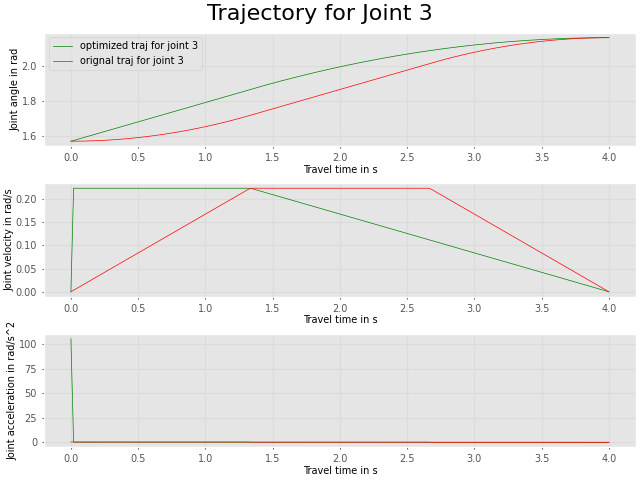
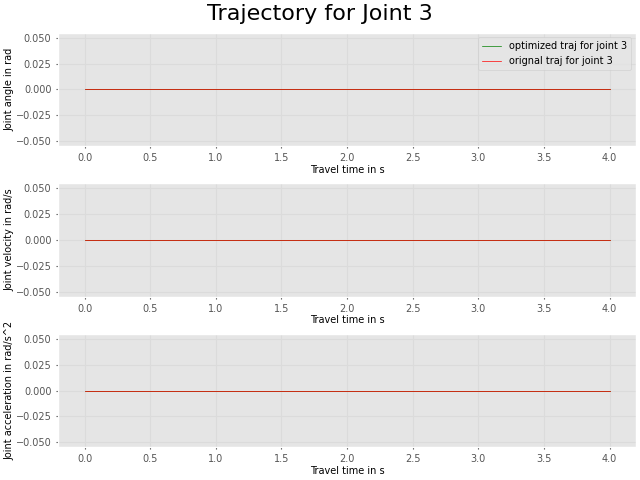
Added reflected mass formulation
reflected mass at some points of interest

diff --git a/Trajectory/insanity.py b/Trajectory/insanity.py
@@ -4,6 +4,10 @@ import numpy as np
 from traj import generate_traj_time
 import matplotlib.pyplot as plt
 from mpl_toolkits import mplot3d
+import math
+import matplotlib.pyplot as plt
+import matplotlib.animation as animation
+import mpl_toolkits.mplot3d.axes3d as p3
 
 Yu = rtb.models.DH.Yu()
 
@@ -12,6 +16,8 @@ angle = np.zeros((6, 201))
 velocity = np.zeros((6, 201))
 accel = np.zeros((6, 201))
 mass_vec = np.zeros(6)
+points = [np.array([0, -0.13687, 0, 1]), np.array([-0.450, 0, 0.13687, 1]), np.array([0, 0, -0.1957, 1]), np.array([0, 0, 0.10946, 1]), np.array([0, 0, 0.10946, 1]), np.array([0, 0, 0, 1])] # points of interest
+
 
 for j in range(6):
 
@@ -20,37 +26,143 @@ for j in range(6):
     accel[j, :] = traj[j].qdd
     mass_vec[j] = Yu[j].m
 
-mass = np.linalg.norm(mass_vec, 1)
+mass = np.linalg.norm(mass_vec, 1) # total mass of robot
 # define a point on the robot
 r1 = np.array([-0.450, 0, 0.13687, 1]) # Position vector of p1 relative to RF2 (segment 2)
 
-q = angle[:, 75]
-fwd = Yu.fkine_all(q)
-fwd_j2 = np.array(fwd[2])
-trafo_p1 = np.eye(4)
-trafo_p1[:, -1] = r1
-rf_p1 = fwd_j2 @ trafo_p1
-r1_0 = rf_p1[:, -1] # Position vector of p1 in RF0 (robot base)
-fwd_ee = np.array(fwd[-1])
-r6_0 = fwd_ee[:, -1]
-r61_0 = r1_0 - r6_0 # Position vector from RF6 to p1 in RF0
-print(r61_0)
-trafo_61 = np.eye(4)
-trafo_61[:3, -1] = r61_0[:3]
-print(trafo_61)
 
-#Yu.tool = trafo_61
+def unit_vector(q, point, joint_num, t, qd): # angle and velocity matrix should have the size of (201, 6), point = np.array([x, y, z, 1]), t: traj time
 
-qd = velocity[:, 0]
-jacobian_p1 = Yu.jacob0(q)
-print(np.round(jacobian_p1, 3))
+    Yu = rtb.models.DH.Yu() # import Yu with all relevant geometric and mechanical data
+    #traj = generate_traj_time(2.5, 201)
 
-M_q = Yu.inertia(q)
+    trafo_p = np.eye(4)
+    trafo_p[:, -1] = point
+    #lin_vel = np.zeros((6, 3, 201)) 
+    vel_um = np.zeros((6, 3, 201))
+    joint_jacobian = np.zeros((6, joint_num+1))   
+    #lin_momentum = np.zeros((6, 3, 201))
+    #ang_momentum = np.zeros((6, 3, 201))
+    #lin_momentum_total = np.zeros((3, 201))
+    #mmt_abs = np.zeros((6, 201))
+    #position_mass = np.zeros((6, 3, 201))
+    #T_cm = np.zeros((201, 3))
+    #v_ee = np.zeros((6, 201))
+    pose_list = []
+    poses = Yu.fkine_all(q)
 
-Aq_inv = jacobian_p1 @ np.linalg.inv(M_q) @ np.transpose(jacobian_p1)
-#print(Aq_inv)
 
-u = np.array([0, 1, 0])
-m_refl = 1/(np.transpose(u) @ Aq_inv[:3, :3] @ u)
-print(f'reflected mass at point: {m_refl} kg')
-print(f'mass of the whole robot: {mass} kg')
+    for pose in (poses):
+        pose_list.append(np.array(pose))  
+
+    #print(trafo_p)
+    rf_p = pose_list[joint_num+1] @ trafo_p @ np.array([0, 0, 0, 1]) # Position vector of p in RF0
+
+    for count in range(joint_num+1):
+        translation = rf_p - pose_list[count] @ np.array([0, 0, 0, 1])
+        translation = translation[:3]
+        rotation = pose_list[count] @ np.array([0, 0, 1, 0])
+        rotation = rotation[:3]
+        joint_jacobian[:3, count] = np.cross(rotation ,translation)
+        joint_jacobian[3:6, count] = rotation
+
+    lin_ang = joint_jacobian @ qd[:joint_num+1] # velocity[t, :joint_num+1]
+    lin_vel = lin_ang[:3]
+    #print(lin_vel)
+    length = np.linalg.norm(lin_vel, 2)
+    if length <= 1e-3:
+        vel_u = np.zeros(3)
+    else:
+        vel_u = np.divide(lin_vel, (np.linalg.norm(lin_vel, 2)))
+
+    fkine_ee = pose_list[-1]
+    r6_0 = fkine_ee[:, -1]
+    #print(rf_p)
+    #print(r6_0)
+    r6p_0 = rf_p - r6_0 # Position vector from RF6 to p in RF0
+    #print(r6p_0)
+    T_0e = Yu.fkine(q)
+    #print(T_0e)
+    T_e0 = np.linalg.inv(T_0e)
+    #print(T_e0)
+    r6p_0 = T_e0 @ r6p_0
+    #print(r6p_0)
+    trafo_6p = np.eye(4)
+    trafo_6p[:3, -1] = r6p_0[:3]
+    #print(trafo_6p)
+
+    Yu.tool = trafo_6p
+    jacobian_p = Yu.jacob0(q)
+    M_q = Yu.inertia(q)
+    Aq_inv = jacobian_p @ np.linalg.inv(M_q) @ np.transpose(jacobian_p)
+    #print(jacobian_p)
+    #print(f'vel = {vel_u}\n')
+    if all(element == 0 for element in vel_u):
+        m_refl = 0
+        #print('oh no')
+    else:
+        #print(vel_u)
+        m_refl = 1/(np.transpose(vel_u) @ Aq_inv[:3, :3] @ vel_u)
+        #print('oh yes')
+    #print(f'reflected mass at point: {m_refl} kg')
+    #print(f'mass of the whole robot: {mass} kg')
+
+    return vel_u, m_refl, lin_vel, rf_p
+
+m_refl = np.zeros((6, 201))
+lin_vel = np.zeros((6, 3, 201))
+rf_p_storage = np.zeros((6, 3, 201))
+
+
+for t in range(201):
+    q = angle[:, t]
+    qd = velocity[:, t]
+
+    for count, r in enumerate(points):
+        #print(f'r = {r}\n')
+        result = unit_vector(q, r, count, t, qd)
+        lin_vel[count, :, t] = result[2]
+        m_refl[count, t] = result[1]
+        rf_p_storage[count, :, t] = result[3][:3]
+
+n = 4
+print(m_refl[n, :])
+#print(lin_vel[3, :, :])
+refl_max = np.argmax(m_refl[n, :])
+print(refl_max)
+print(m_refl[n, refl_max])
+ax = plt.axes(111, projection='3d')
+
+lin_vel_plot = lin_vel[n, :, :]
+start = np.transpose(rf_p_storage[n, :, :])
+
+xline2 = start[:, 0]
+yline2 = start[:, 1]
+zline2 = start[:, 2]
+
+
+ax = plt.axes(111, projection='3d')
+#ax.set_xlim([-8, 8])
+#ax.set_ylim([-8, 8])
+#ax.set_zlim([-1, 1])
+ax.set_xlabel('x coordinate in m')
+ax.set_ylabel('Y coordinate in m')
+ax.set_zlabel('Z coordinate in m')
+#ax.plot3D(xline, yline, zline)
+#ax.plot3D(xline1, yline1, zline1, color='blue')
+ax.plot3D(xline2, yline2, zline2, color='red', linewidth=1, label='Trajectory of center of mass')
+#plt.show()
+
+#print(start)
+#print(np.round(lin_max, 2))
+for i in range(201):
+#for i in range(5):
+    if i == 0:
+        ax.quiver(start[i, 0], start[i, 1], start[i, 2], lin_vel_plot[0, i], lin_vel_plot[1, i], lin_vel_plot[2, i], color='green', arrow_length_ratio=0, label='Momentum vector of robot on its center of mass')
+    elif i % 4 == 0:
+    #ax.quiver(start[i, 0], start[i, 1], start[i, 2], lin_max[i, 0], lin_max[i, 1], lin_max[i, 2], arrow_length_ratio=0.01, length=np.linalg.norm((start[i, :]-lin_max[i, :]), 2), normalize='True')
+        ax.quiver(start[i, 0], start[i, 1], start[i, 2], lin_vel_plot[0, i], lin_vel_plot[1, i], lin_vel_plot[2, i], color='green', arrow_length_ratio=0)#length=0.01*np.linalg.norm((start[i, :]-lin_max[i, :]), 2), normalize='True', arrow_length_ratio=0.05, color='blue')
+    #ax.quiver(T_cm[i, 0], T_cm[i, 1], T_cm[i, 2], lin_max[i, 0], lin_max[i, 1], lin_max[i, 2], arrow_length_ratio=0.01, length=np.linalg.norm((start[i, :]-lin_max[i, :]), 2), normalize='True')
+#plt.show()
+#ax.legend()
+plt.show()

diff --git a/Trajectory/momentum_plot.py b/Trajectory/momentum_plot.py
@@ -119,9 +119,9 @@ def calculate_momentum(traj):
     xline = lin_max[:, 0]
     yline = lin_max[:, 1]
     zline = lin_max[:, 2]
-    xline1 = position_mass[max_joint, 0, :]
-    yline1 = position_mass[max_joint, 1, :]
-    zline1 = position_mass[max_joint, 2, :]
+    xline1 = position_mass[0, 0, :]
+    yline1 = position_mass[0, 1, :]
+    zline1 = position_mass[0, 2, :]
     xline2 = T_cm[:, 0]
     yline2 = T_cm[:, 1]
     zline2 = T_cm[:, 2]
@@ -138,7 +138,6 @@ def calculate_momentum(traj):
     #ax.plot3D(xline1, yline1, zline1, color='blue')
     ax.plot3D(xline2, yline2, zline2, color='red', linewidth=1, label='Trajectory of center of mass')
     plt.savefig('C:\Codes\master_thesis\Trajectory\Figures\Momentum/mass_traj.png')
-
     start = np.transpose(position_mass[max_joint, :, :])
     #print(start)
     #print(np.round(lin_max, 2))
@@ -172,10 +171,7 @@ def calculate_momentum(traj):
     plt.title('Change of total momentum over time', fontsize=20)
     plt.savefig('C:\Codes\master_thesis\Trajectory\Figures\Momentum/momentum_total.png')
     plt.show()
-    print(lin_vel)
-    abs_lin_vel = np.linalg.norm(lin_vel, 2, axis=1)
-    print(np.amax(abs_lin_vel, axis=1))
-    print(np.argmax(np.amax(abs_lin_vel, axis=1)))
+
     return np.max(result)
 
 traj = generate_traj_time(2.5, 201)

diff --git a/Trajectory/general_testing.py b/Trajectory/general_testing.py
@@ -30,7 +30,40 @@ t2 = end_time2 - start_time2
 print(t1)
 print(t2)
 """
+Yu = rtb.models.DH.Yu()
+traj = generate_traj_time(2.5, 201)
+angle = np.zeros((6, 201))
+velocity = np.zeros((6, 201))
+accel = np.zeros((6, 201))
+mass_vec = np.zeros(6)
 
-a = np.array([[0, 0, 0], [0, 0, 0], [0, 0, 2]])
-b = np.linalg.inv(a)
-print(b)
+for j in range(6):
+    angle[j, :] = traj[j].q
+    velocity[j, :] = traj[j].qd
+    accel[j, :] = traj[j].qdd
+
+ee_list = np.zeros((3, 201))
+for i in range(201):
+    ee = np.array(Yu.fkine(angle[:, i]))
+    ee = ee[:, -1]
+    ee = ee[:3]
+    ee_list[:, i] = ee
+
+xline2 = ee_list[0, :]
+yline2 = ee_list[1, :]
+zline2 = ee_list[2, :]
+
+
+ax = plt.axes(111, projection='3d')
+#ax.set_xlim([-8, 8])
+#ax.set_ylim([-8, 8])
+#ax.set_zlim([-1, 1])
+ax.set_xlabel('x coordinate in m')
+ax.set_ylabel('Y coordinate in m')
+ax.set_zlabel('Z coordinate in m')
+#ax.plot3D(xline, yline, zline)
+#ax.plot3D(xline1, yline1, zline1, color='blue')
+ax.plot3D(xline2, yline2, zline2, color='red', linewidth=1, label='Trajectory of center of mass')
+plt.show()
+
+print(ee_list)

diff --git a/Trajectory/traj.py b/Trajectory/traj.py
@@ -36,11 +36,22 @@ def generate_traj_time(traj_time):
 
     return tg1, tg2, tg3, tg4, tg5, tg6, t
 """
-
 def generate_traj_time(traj_time, step):
     #Yu = rtb.models.DH.Yu()
     t = np.linspace(0, traj_time, step)
-    tg1 = tools.trapezoidal(-pi, pi, t)
+    tg1 = tools.trapezoidal(0, pi, t)
+    tg2 = tools.trapezoidal(0, 0, t)
+    tg3 = tools.trapezoidal(0, 0, t)
+    tg4 = tools.trapezoidal(0, 0, t)
+    tg5 = tools.trapezoidal(0, 0, t)
+    tg6 = tools.trapezoidal(0, 0, t)
+
+    return tg1, tg2, tg3, tg4, tg5, tg6, t
+"""
+def generate_traj_time(traj_time, step):
+    #Yu = rtb.models.DH.Yu()
+    t = np.linspace(0, traj_time, step)
+    tg1 = tools.trapezoidal(-pi, 0, t)
     tg2 = tools.trapezoidal(-pi, -0.749*pi, t)
     tg3 = tools.trapezoidal(pi/2, 0.689*pi, t)
     tg4 = tools.trapezoidal(-pi/2, 0.444*pi, t)
@@ -48,7 +59,7 @@ def generate_traj_time(traj_time, step):
     tg6 = tools.trapezoidal(0, -pi, t)
 
     return tg1, tg2, tg3, tg4, tg5, tg6, t
-
+"""
 """
 
 p1 = 5

diff --git a/Trajectory/energy_est.py b/Trajectory/energy_est.py
@@ -6,7 +6,7 @@ from call_tau import *
 def calculate_energy(q_torq, qd_torq, qdd_torq, time):
     power_val = []
     for i in range(len(q_torq)):
-        torq_vec = calc_tau(q_torq[i, :], qd_torq[i, :], qdd_torq[i, :])
+        torq_vec = cal_tau(q_torq[i, :], qd_torq[i, :], qdd_torq[i, :])
         vel_vec = qd_torq[i, :]
         power_vec = np.linalg.norm(np.multiply(torq_vec, vel_vec), 1)
         power_val.append(power_vec)           
